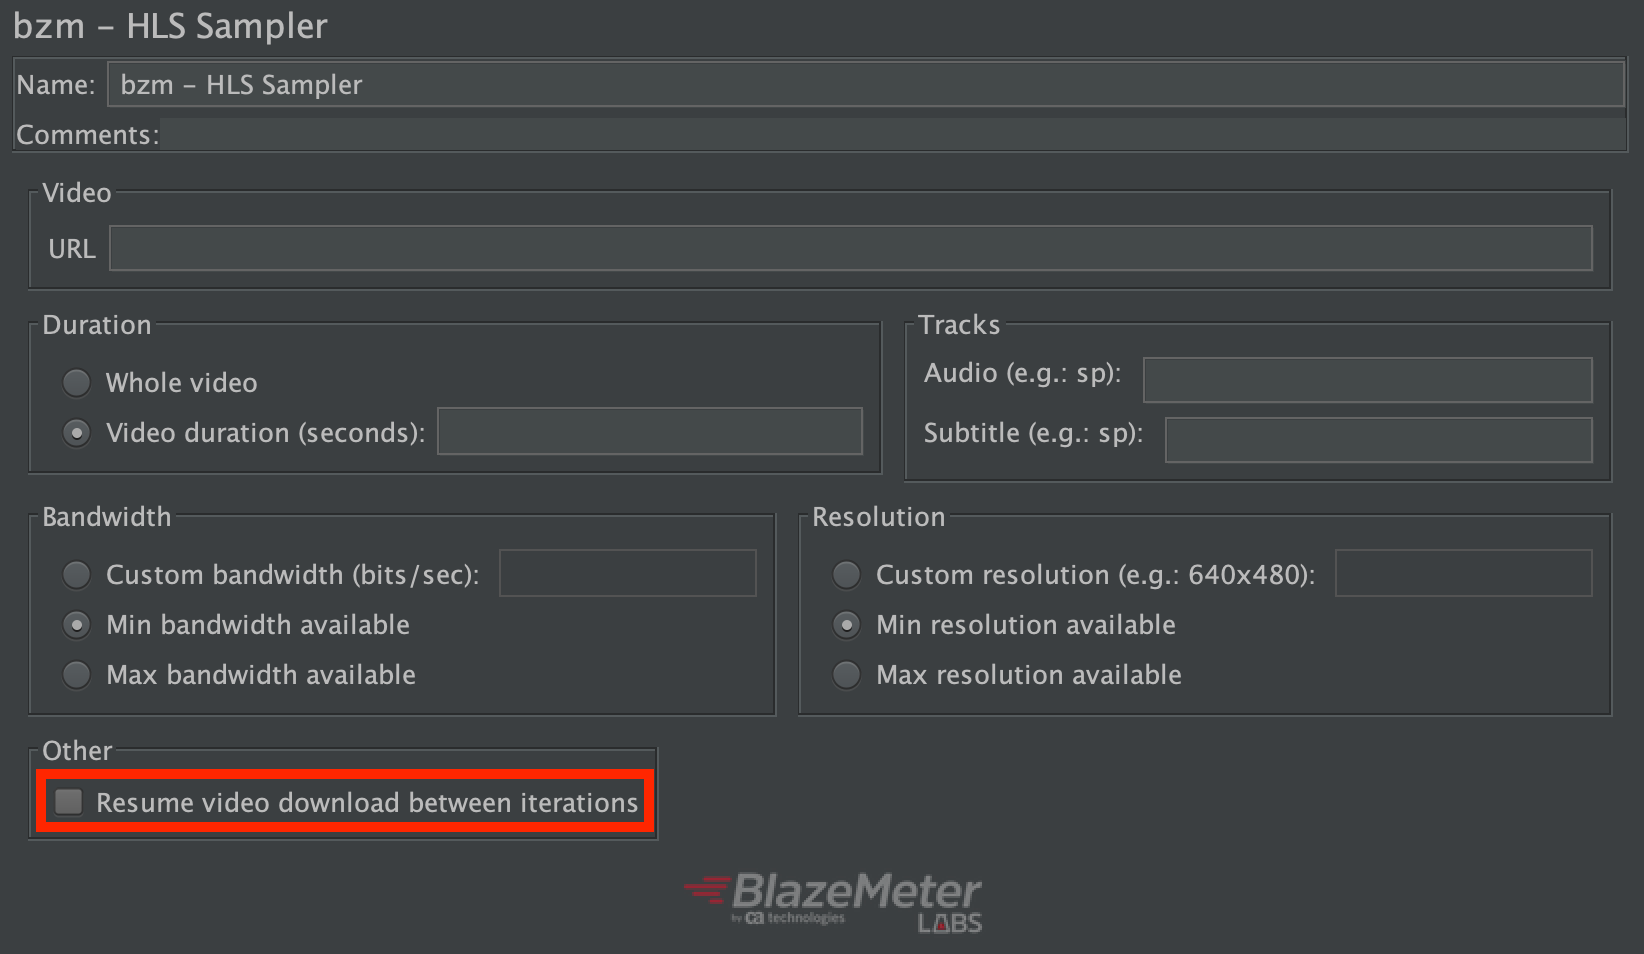
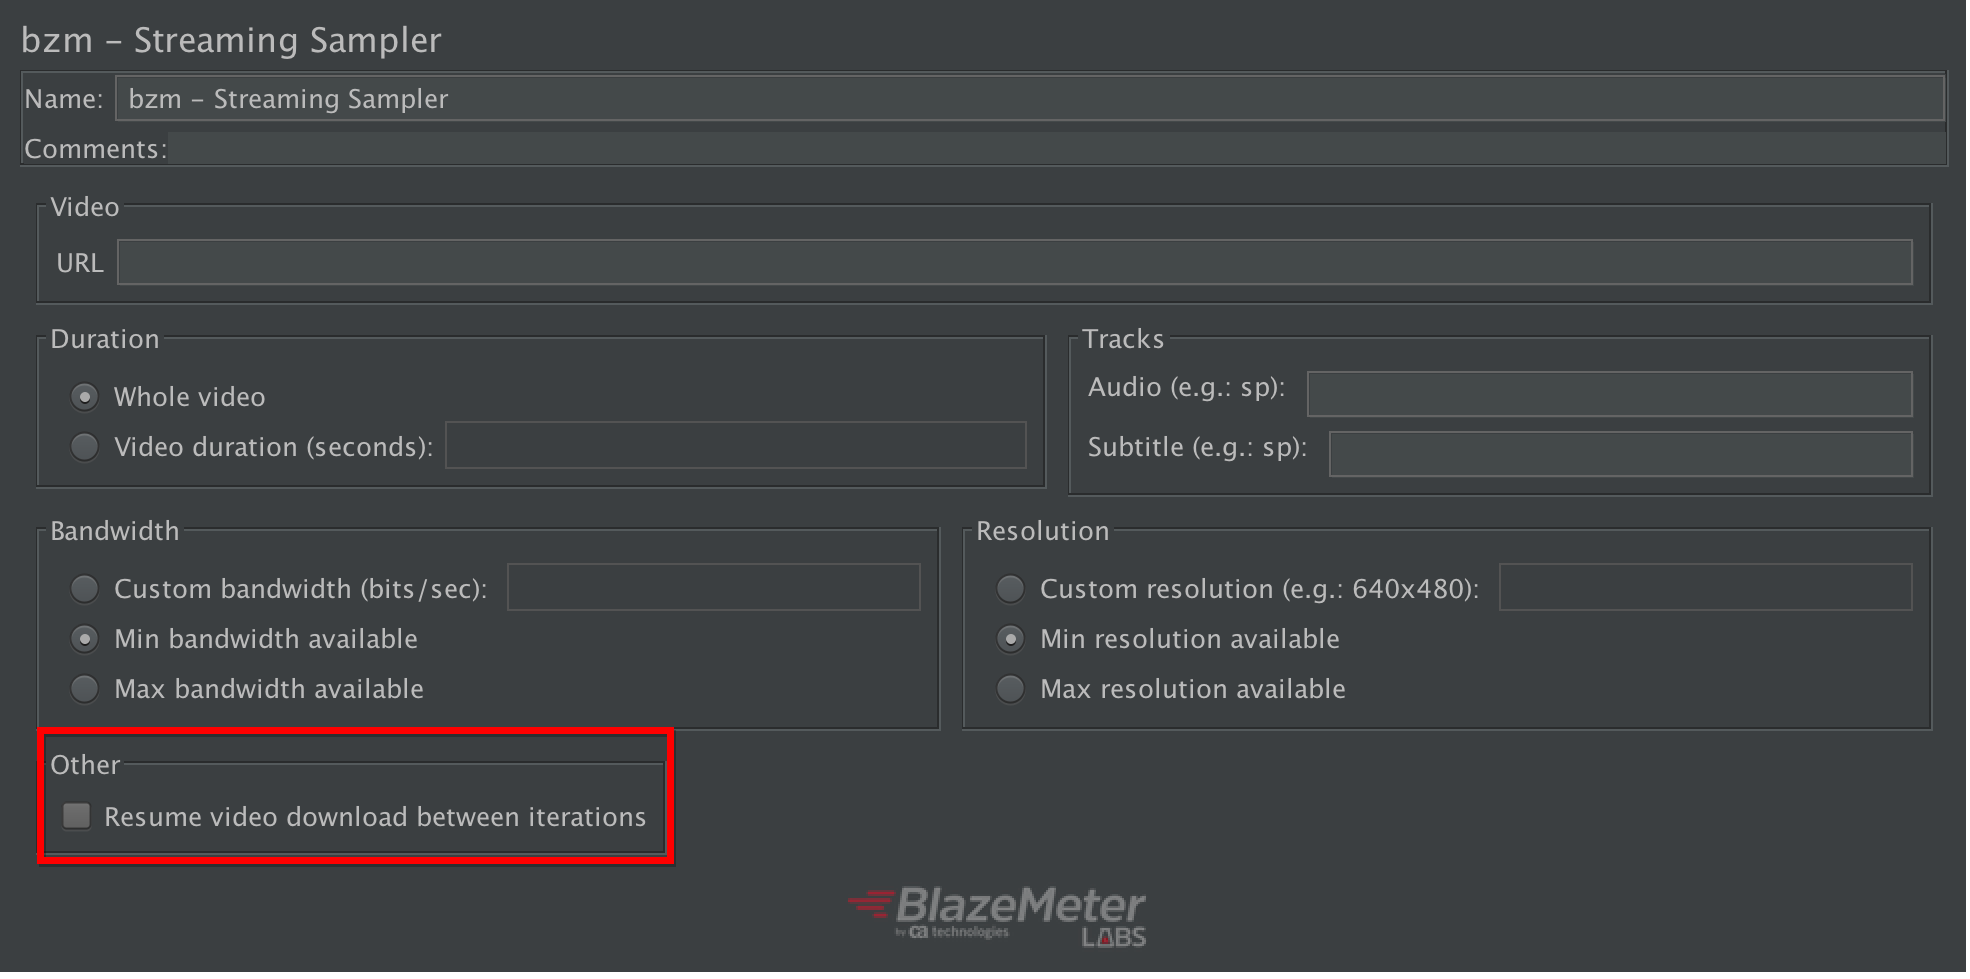
Added comments regarding MPD-Tools and updated readme to explain motives to use MPEG-DASH

Changed region(s): [[0.0, 0.0, 1.0, 1.0], [0.0, 0.3952, 0.9617, 0.8816], [0.0, 0.3344, 0.0931, 0.3648]]

diff --git a/README.md b/README.md
@@ -2,11 +2,11 @@
 
 The HLS protocol provides a reliable, cost-effective means of delivering continuous and long-form video over the Internet. It allows a receiver to adapt the bitrate of the media to the current network conditions, in order to maintain uninterrupted playback at the best possible quality.
 
-Likewise, the plugin recognizes MPEG-DASH links automatically, without having to point it out in the interface, and supports the downloads of manifests and segments with a predefined resolution and bandwidth.
+Likewise, trying to provide a wider spectrum of protocols to support videos streaming and video on demand, the plugin also recognizes MPEG-DASH links automatically, without having to point it out in the interface, supporting the downloads of manifests and segments with a predefined resolution and bandwidth.
  
 For more information related to HLS, please refer to the  [wikipedia page](https://en.wikipedia.org/wiki/HTTP_Live_Streaming) or to the [RFC](https://tools.ietf.org/html/rfc8216) and, for MPEG DASH, please refer to the [wikipedia page](https://en.wikipedia.org/wiki/Dynamic_Adaptive_Streaming_over_HTTP) or to the [ISO](https://standards.iso.org/ittf/PubliclyAvailableStandards/c065274_ISO_IEC_23009-1_2014.zip).
 
-Currently the project uses the [HLSParserJ](https://github.com/Comcast/hlsparserj) library to parse the playlists.
+Currently the project uses the [HLSParserJ](https://github.com/Comcast/hlsparserj) library to parse the HLS playlists and a [fork]((https://github.com/Blazemeter/mpd-tools)) of [MPD-Tools](https://github.com/carlanton/mpd-tools) for MPEG-DASH manifest and segments.
 
 #### In a HTTP Live Streaming process:
 
@@ -30,7 +30,8 @@ This plugin solves the HLS complexity internally. It gets the master playlist fi
 
 Same occurs for MPEG Dash. It gets the Manifest file from the url, chooses an Adaptive set for Media, Audio and Subtitles based on availability, stream type, playback time, network bandwidth and device resolution.
 
-Here is what the HLS Sampler looks like:
+
+Here is what the Sampler looks like:
 
 ![](docs/sampler.png)
 
@@ -38,7 +39,7 @@ Here is what the HLS Sampler looks like:
 
 - Install the HLS plugin from the Plugins Manager
 - Create a Thread Group.
-- Add the HLS Sampler Add -> Sampler -> bzm - HLS Sampler
+- Add the HLS Sampler Add -> Sampler -> bzm - Video Streaming Sampler
 
 ![](docs/add-sampler.png)
 
